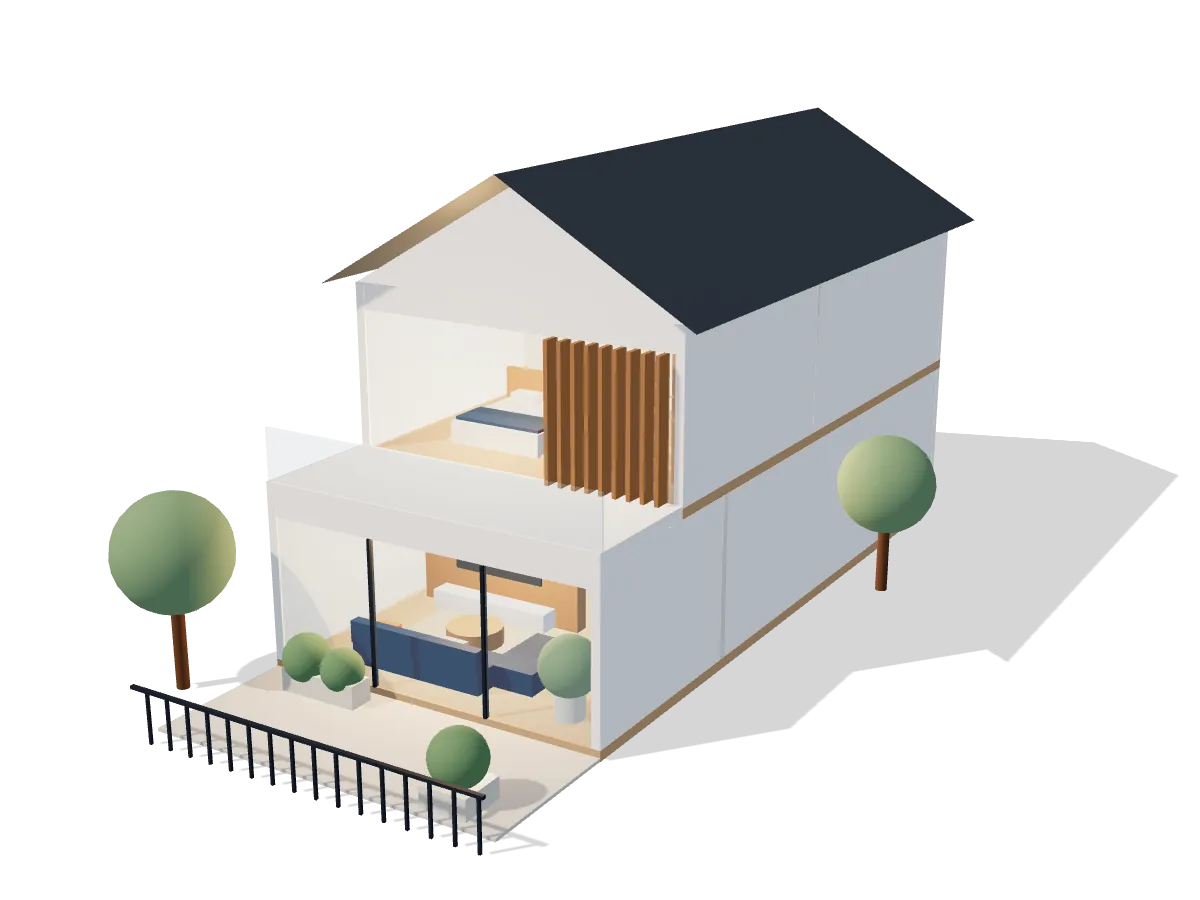
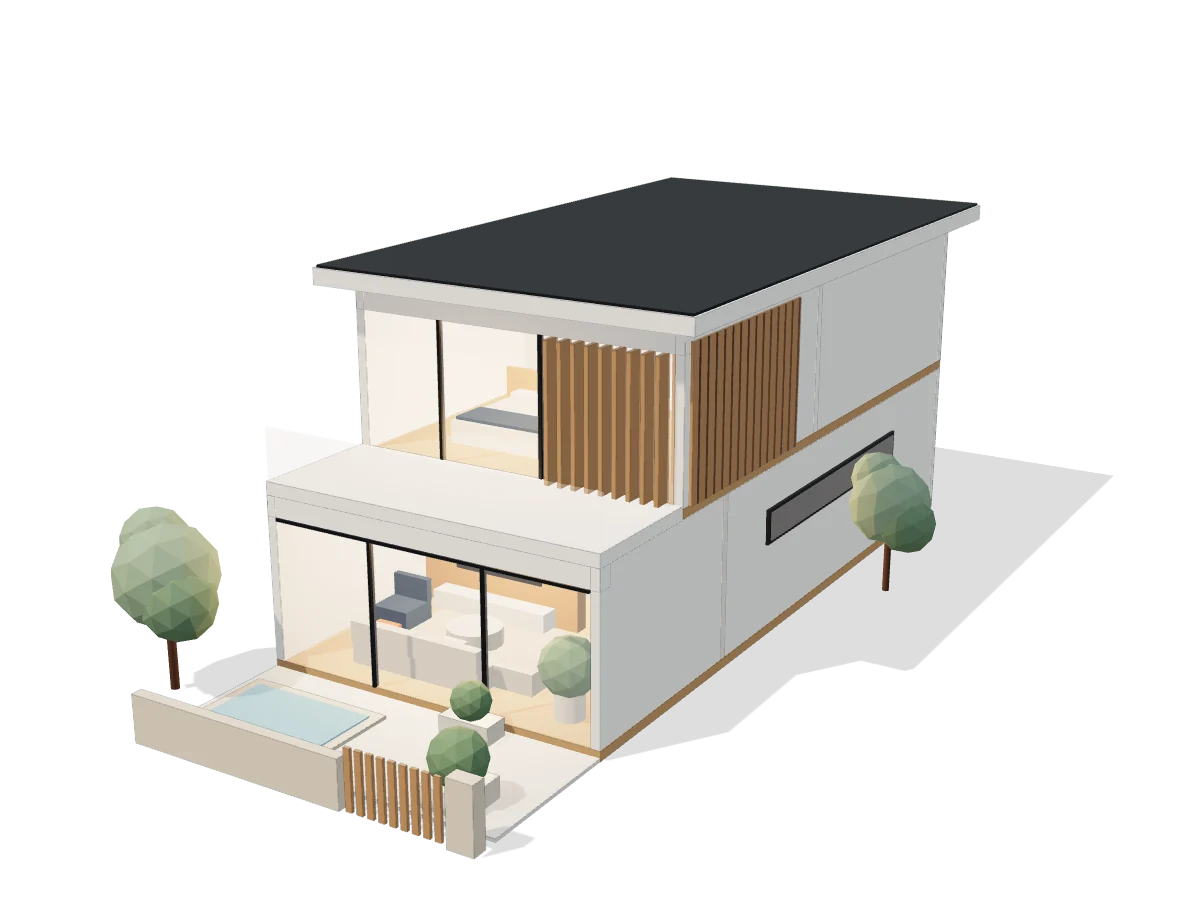
Premium restyle of the 3D house
- Studio environment lighting (procedural softboxes baked with PMREM)
  for soft reflections; firmer sun shadows and fine architectural edges
- Warm palette: oak, travertine, brass, oatmeal upholstery with a navy
  accent chair, charcoal frames
- Modern flat roof with overhang and charcoal cap replaces the gable
- Side facade: timber cladding and a long slot window
- Front yard: plunge pool, stone boundary wall with timber slat gate,
  faceted sculpted trees instead of round ones and the picket fence
- Twilight finish: interior lights and glazing glow warm at the end
- Regenerated the static fallback image from the new model

Claude-Session: https://claude.ai/code/session_01L1S9x9j7X8Tz18QrkzYoSy

Changed region(s): [[0.2467, 0.1244, 0.8325, 0.56], [0.0925, 0.5289, 0.4933, 0.9644], [0.555, 0.4667, 0.9867, 0.84]]

diff --git a/albedo-landed-lp/elementor/alb-house3d.js b/albedo-landed-lp/elementor/alb-house3d.js
@@ -15,34 +15,54 @@
     renderer.setPixelRatio(Math.min(window.devicePixelRatio || 1, 2));
     renderer.outputEncoding = THREE.sRGBEncoding;
     renderer.toneMapping = THREE.ACESFilmicToneMapping;
-    renderer.toneMappingExposure = 1.05;
+    renderer.toneMappingExposure = 1.0;
     renderer.shadowMap.enabled = true;
     renderer.shadowMap.type = THREE.PCFSoftShadowMap;
 
     var scene = new THREE.Scene();
     var camera = new THREE.PerspectiveCamera(30, 1, 0.1, 200);
 
-    var hemi = new THREE.HemisphereLight(0xffffff, 0xc9d3de, 0.75); scene.add(hemi);
-    var sun = new THREE.DirectionalLight(0xfff3e2, 1.15);
-    sun.position.set(-14, 24, 18); sun.castShadow = true;
+    // Soft studio reflections: a small procedural "light room" baked into an environment map.
+    var pmrem = new THREE.PMREMGenerator(renderer);
+    var envScene = new THREE.Scene();
+    envScene.add(new THREE.Mesh(new THREE.BoxGeometry(60, 60, 60), new THREE.MeshBasicMaterial({ color: '#C9D2DC', side: THREE.BackSide })));
+    function softbox(w, h, x, y, z, c, k) {
+      var m = new THREE.Mesh(new THREE.PlaneGeometry(w, h), new THREE.MeshBasicMaterial({ color: new THREE.Color(c).multiplyScalar(k), side: THREE.DoubleSide }));
+      m.position.set(x, y, z); m.lookAt(0, 0, 0); envScene.add(m);
+    }
+    softbox(26, 16, 0, 26, 4, '#FFFFFF', 2.6);
+    softbox(14, 10, -24, 10, 10, '#FFF1DE', 2.0);
+    softbox(14, 10, 22, 8, -10, '#DCE8F6', 1.4);
+    var envFloor = new THREE.Mesh(new THREE.PlaneGeometry(60, 60), new THREE.MeshBasicMaterial({ color: '#A79F94' }));
+    envFloor.rotation.x = -Math.PI / 2; envFloor.position.y = -12; envScene.add(envFloor);
+    var envTex = pmrem.fromScene(envScene, 0.035).texture;
+    scene.environment = envTex;
+
+    var hemi = new THREE.HemisphereLight(0xffffff, 0xd8d2c8, 0.28); scene.add(hemi);
+    var sun = new THREE.DirectionalLight(0xfff1de, 1.55);
+    sun.position.set(-10, 28, 16); sun.castShadow = true;
     sun.shadow.mapSize.set(2048, 2048);
     sun.shadow.camera.left = -18; sun.shadow.camera.right = 18; sun.shadow.camera.top = 18; sun.shadow.camera.bottom = -18;
-    sun.shadow.bias = -0.0004;
+    sun.shadow.bias = -0.0004; sun.shadow.normalBias = 0.02;
     scene.add(sun);
 
     function C(c) { return new THREE.Color(c); }
-    function mat(c, o) { return new THREE.MeshStandardMaterial(Object.assign({ color: c, roughness: 0.85, metalness: 0 }, o || {})); }
+    function mat(c, o) { return new THREE.MeshStandardMaterial(Object.assign({ color: c, roughness: 0.85, metalness: 0, envMapIntensity: 0.55 }, o || {})); }
     var M = {
-      ground: mat('#E6ECF1'), grass: mat('#B9C9B4'), slab: mat('#F4F1EC'), wall: mat('#FBFAF8'), wallEdge: mat('#E7E2DA'),
-      timber: mat('#B07A4F', { roughness: 0.6 }), timberDark: mat('#6E4A31', { roughness: 0.6 }), fabric: mat('#E8E1D6'),
-      navy: mat('#00325D', { roughness: 0.7 }), accent: mat(accent, { roughness: 0.7 }), stone: mat('#DCD7CF', { roughness: 0.35 }),
-      dark: mat('#2B3440', { roughness: 0.5 }), rug: mat('#C9B9A3'), white: mat('#FFFFFF'), plant: mat('#6F8F6A'), leaf: mat('#7E9A78'),
-      sage: mat('#A9B8A3'), roof: mat('#3D4752', { roughness: 0.7, side: THREE.DoubleSide }), paving: mat('#D5D1CA'), metal: mat('#5B6673', { roughness: 0.4, metalness: 0.4 }),
-      lamp: mat('#FFE2B8', { emissive: '#FFC27A', emissiveIntensity: 0 }), art: mat('#4F7CA7'),
-      glass: new THREE.MeshStandardMaterial({ color: '#D3E6F4', roughness: 0.05, metalness: 0.1, transparent: true, opacity: 0, depthWrite: false }),
-      line: new THREE.LineBasicMaterial({ color: '#00325D', transparent: true, opacity: 0.55 })
+      ground: mat('#E6ECF1'), slab: mat('#F2EEE8'), wall: mat('#F7F4EF', { roughness: 0.92 }), wallEdge: mat('#ECE6DD', { roughness: 0.92 }),
+      timber: mat('#B88A5E', { roughness: 0.55 }), timberDark: mat('#5B3F2C', { roughness: 0.6 }), fabric: mat('#E7DFD2', { roughness: 0.95 }),
+      sofa: mat('#D3C8B8', { roughness: 0.95 }), navy: mat('#1F3B5A', { roughness: 0.8 }), accent: mat(accent, { roughness: 0.8 }),
+      stone: mat('#E3DACB', { roughness: 0.38 }), travertine: mat('#D9CDB9', { roughness: 0.5 }),
+      dark: mat('#2A2D31', { roughness: 0.45, metalness: 0.55 }), rug: mat('#CDBFA9', { roughness: 1 }), white: mat('#FBFAF7', { roughness: 0.5 }),
+      plant: mat('#6E8A69', { flatShading: true }), leaf: mat('#8FA58B', { roughness: 0.9, flatShading: true }), leafDark: mat('#728C70', { roughness: 0.9, flatShading: true }),
+      sage: mat('#AEBBA7'), roofCap: mat('#24282D', { roughness: 0.55, metalness: 0.3 }), paving: mat('#ECE6DC', { roughness: 0.7 }),
+      metal: mat('#2A2D31', { roughness: 0.4, metalness: 0.6 }), brass: mat('#B8925A', { roughness: 0.3, metalness: 0.85, envMapIntensity: 1.2 }),
+      lamp: mat('#FFE6C2', { emissive: '#FFC27A', emissiveIntensity: 0 }), art: mat('#5C7A96'),
+      water: new THREE.MeshStandardMaterial({ color: '#7FB3C4', roughness: 0.04, metalness: 0.2, transparent: true, opacity: 0.88 }),
+      glass: new THREE.MeshStandardMaterial({ color: '#DCEAF4', emissive: '#FFB45E', emissiveIntensity: 0, roughness: 0.03, metalness: 0.3, envMapIntensity: 1.6, transparent: true, opacity: 0, depthWrite: false }),
+      line: new THREE.LineBasicMaterial({ color: '#00325D', transparent: true, opacity: 0.55 }),
+      edge: new THREE.LineBasicMaterial({ color: '#2F3742', transparent: true, opacity: 0.24 })
     };
-
     var W = 7, D = 15, H = 3.2, T = 0.18, hx = W / 2, hz = D / 2;
     var y1 = 0.2 + H, fy = y1 + 0.2, z1a = -hz, z1b = 4.8;   // upper floor spans z -7.5 .. 4.8
     var root = new THREE.Group(); scene.add(root);
@@ -61,9 +81,18 @@
       var mesh = new THREE.Mesh(g, m); mesh.position.set(x, y, z); mesh.castShadow = true; (parent || root).add(mesh); return mesh;
     }
 
+    function ico(r, m, x, y, z, parent) {
+      var mesh = new THREE.Mesh(new THREE.IcosahedronGeometry(r, 1), m); mesh.position.set(x, y, z); mesh.castShadow = true; mesh.receiveShadow = true; (parent || root).add(mesh); return mesh;
+    }
+    // Fine architectural edge lines on walls, slabs and facade pieces.
+    function edges(mesh) {
+      if (!mesh || !mesh.geometry || mesh.material === M.glass || mesh.material === M.water) return;
+      mesh.add(new THREE.LineSegments(new THREE.EdgesGeometry(mesh.geometry, 20), M.edge));
+    }
+
     // site
     // No floor or sky: a transparent ground that only receives a soft shadow.
-    var ground = new THREE.Mesh(new THREE.PlaneGeometry(90, 90), new THREE.ShadowMaterial({ opacity: 0.16 })); ground.rotation.x = -Math.PI / 2; ground.receiveShadow = true; scene.add(ground);
+    var ground = new THREE.Mesh(new THREE.PlaneGeometry(90, 90), new THREE.ShadowMaterial({ opacity: 0.13 })); ground.rotation.x = -Math.PI / 2; ground.receiveShadow = true; scene.add(ground);
 
     // ---------- stage 1: floor plan ----------
     var slab0 = box(W, 0.2, D, M.slab, 0, 0, 0);
@@ -97,27 +126,28 @@
     function f(mesh) { furn.push(mesh); return mesh; }
     // living (GF front)
     f(box(3.4, 0.03, 2.6, M.rug, -0.6, 0.2, 5.0));
-    f(box(2.8, 0.42, 0.95, M.navy, -0.8, 0.2, 6.4)); f(box(2.8, 0.42, 0.22, M.navy, -0.8, 0.62, 6.8));
-    f(box(0.95, 0.42, 1.6, M.navy, 0.95, 0.2, 5.6));                       // L-sofa
+    f(box(2.8, 0.42, 0.95, M.sofa, -0.8, 0.2, 6.4)); f(box(2.8, 0.42, 0.22, M.sofa, -0.8, 0.62, 6.8));
+    f(box(0.95, 0.42, 1.6, M.sofa, 0.95, 0.2, 5.6));                       // L-sofa
+    f(box(0.8, 0.4, 0.8, M.navy, -2.6, 0.2, 4.9)); f(box(0.8, 0.45, 0.14, M.navy, -2.6, 0.6, 4.55));   // accent chair
     f(box(0.5, 0.32, 0.16, M.accent, -1.7, 0.62, 6.45)); f(box(0.5, 0.32, 0.16, M.fabric, -0.2, 0.62, 6.45));
-    f(cyl(0.55, 0.36, M.timber, -0.8, 0.2, 5.0));                           // round coffee table
+    f(cyl(0.55, 0.36, M.travertine, -0.8, 0.2, 5.0));                       // travertine coffee table
     f(box(3.6, 2.4, 0.3, M.timber, -1.2, 0.2, 3.45));                       // timber feature wall
     f(box(2.0, 1.15, 0.05, M.dark, -1.2, 1.0, 3.62));                       // TV
     f(box(2.6, 0.4, 0.45, M.white, -1.2, 0.2, 3.8));                        // floating console
-    f(cyl(0.28, 0.5, M.stone, 2.4, 0.2, 6.7)); f(sphere(0.55, M.plant, 2.4, 1.15, 6.7));
-    f(cyl(0.02, 1.4, M.metal, 1.6, 0.2, 4.3)); f(sphere(0.2, M.lamp, 1.6, 1.65, 4.3));   // floor lamp
+    f(cyl(0.28, 0.5, M.stone, 2.4, 0.2, 6.7)); f(ico(0.55, M.plant, 2.4, 1.15, 6.7));
+    f(cyl(0.02, 1.4, M.brass, 1.6, 0.2, 4.3)); f(sphere(0.2, M.lamp, 1.6, 1.65, 4.3));   // floor lamp
     // dining (GF middle)
     f(box(2.2, 0.06, 1.0, M.timber, -1.0, 0.95, 0.9));
     f(box(0.1, 0.75, 0.8, M.timberDark, -1.9, 0.2, 0.9)); f(box(0.1, 0.75, 0.8, M.timberDark, -0.1, 0.2, 0.9));
     [-1.7, -1.0, -0.3].forEach(function (x) { f(box(0.42, 0.45, 0.42, M.fabric, x, 0.2, 0.05)); f(box(0.42, 0.45, 0.42, M.fabric, x, 0.2, 1.75)); });
-    [-1.5, -0.5].forEach(function (x) { f(cyl(0.02, 0.9, M.metal, x, 2.5, 0.9)); f(sphere(0.18, M.lamp, x, 2.45, 0.9)); });
+    [-1.5, -0.5].forEach(function (x) { f(cyl(0.02, 0.9, M.brass, x, 2.5, 0.9)); f(sphere(0.18, M.lamp, x, 2.45, 0.9)); });
     f(box(0.06, 0.9, 1.4, M.art, -hx + 0.22, 1.4, 0.9));                     // artwork
     // kitchen (GF back)
-    f(box(2.4, 0.92, 0.95, M.stone, -1.1, 0.2, -3.7));
+    f(box(2.4, 0.92, 0.95, M.travertine, -1.1, 0.2, -3.7));
     f(box(W - 0.4, 0.92, 0.65, M.white, -0.2, 0.2, -hz + 0.55));
     f(box(W - 0.4, 0.75, 0.38, M.timber, -0.2, 1.8, -hz + 0.4));
     f(box(0.7, 2.2, 0.7, M.white, hx - 0.6, 0.2, -hz + 1.6));                // fridge tower
-    [-1.6, -0.6].forEach(function (x) { f(cyl(0.02, 0.8, M.metal, x, 2.6, -3.7)); f(sphere(0.14, M.lamp, x, 2.55, -3.7)); });
+    [-1.6, -0.6].forEach(function (x) { f(cyl(0.02, 0.8, M.brass, x, 2.6, -3.7)); f(sphere(0.14, M.lamp, x, 2.55, -3.7)); });
     // upper: master bedroom (front)
     f(box(2.4, 0.03, 1.8, M.rug, -1.2, fy, 2.7));
     f(box(2.0, 0.45, 2.2, M.fabric, -1.2, fy, 2.6)); f(box(2.4, 1.0, 0.12, M.timber, -1.2, fy, 1.45));
@@ -149,30 +179,39 @@
     var uGlass = e(box(W - 0.4, H - 0.5, 0.06, M.glass, 0, fy, z1b - 0.05, null, true));
     e(box(W, 0.5, 0.3, M.wall, 0, fy + H - 0.5, z1b - 0.15));
     for (var k = 0; k < 9; k++) e(box(0.08, H - 0.5, 0.35, M.timber, 0.9 + k * 0.28, fy, z1b + 0.12));
-    // pitched roof with gables
-    var rw = hx + 0.45, cz = (z1a + z1b) / 2, rd = (z1b - z1a) / 2 + 0.45, rh = 2.3;
-    var rg = new THREE.BufferGeometry();
-    rg.setAttribute('position', new THREE.Float32BufferAttribute([
-      -rw, 0, -rd, -rw, 0, rd, 0, rh, rd,  -rw, 0, -rd, 0, rh, rd, 0, rh, -rd,
-      rw, 0, -rd, 0, rh, -rd, 0, rh, rd,  rw, 0, -rd, 0, rh, rd, rw, 0, rd
-    ], 3));
-    rg.computeVertexNormals();
-    var roof = new THREE.Mesh(rg, M.roof); roof.castShadow = true; roof.position.set(0, fy + H, cz); root.add(roof); e(roof);
-    var gg = new THREE.BufferGeometry();
-    gg.setAttribute('position', new THREE.Float32BufferAttribute([-hx, 0, 0, hx, 0, 0, 0, rh * (hx / rw), 0], 3)); gg.computeVertexNormals();
-    var gMat = M.wall.clone(); gMat.side = THREE.DoubleSide;
-    var gf = new THREE.Mesh(gg, gMat); gf.position.set(0, fy + H, z1b - 0.05); root.add(gf); e(gf);
-    var gb = new THREE.Mesh(gg, gMat); gb.position.set(0, fy + H, z1a + 0.05); root.add(gb); e(gb);
-    // front yard: porch, car, gate, trees
+    // dark bronze mullions on the upper glazing
+    [-1.6, 0.6].forEach(function (x) { e(box(0.06, H - 0.5, 0.1, M.dark, x, fy, z1b - 0.02)); });
+    e(box(W - 0.4, 0.06, 0.1, M.dark, 0, 0.2 + H - 0.46, hz - 0.02));
+    // side facade: timber cladding on the upper floor and a long slot window below
+    e(box(0.06, H - 0.3, 4.2, M.timber, hx + 0.03, fy, z1b - 2.3));
+    for (var c2 = 0; c2 < 14; c2++) e(box(0.03, H - 0.3, 0.02, M.timberDark, hx + 0.07, fy, z1b - 4.3 + c2 * 0.3, null, true));
+    e(box(0.06, 0.7, 6.2, M.dark, hx + 0.03, 1.9, -1.6));
+    e(box(0.04, 0.56, 6.0, M.glass, hx + 0.07, 1.97, -1.6, null, true));
+    // modern flat roof: overhanging slab with a thin charcoal cap
+    var cz = (z1a + z1b) / 2, rL = (z1b - z1a) + 1.2;
+    e(box(W + 1.0, 0.32, rL, M.wall, 0, fy + H, cz));
+    e(box(W + 0.9, 0.05, rL - 0.1, M.roofCap, 0, fy + H + 0.32, cz, null, true));
+    // front yard: travertine paving, plunge pool, planters
     e(box(W, 0.06, 3.0, M.paving, 0, 0.01, hz + 1.5, null, true));
-    e(box(0.9, 0.45, 0.9, M.stone, 2.4, 0.01, hz + 2.4)); e(sphere(0.5, M.plant, 2.4, 0.85, hz + 2.4));
-    for (var g2 = 0; g2 < 16; g2++) e(box(0.05, 0.95, 0.05, M.dark, -hx + 0.25 + g2 * 0.45, 0.01, hz + 3.4));
-    e(box(W + 0.2, 0.06, 0.08, M.dark, 0, 0.95, hz + 3.4));
-    e(cyl(0.12, 1.8, M.timberDark, -hx - 0.9, 0.01, hz + 1.5)); e(sphere(1.1, M.leaf, -hx - 0.9, 2.6, hz + 1.5));
-    e(cyl(0.12, 1.6, M.timberDark, hx + 1.0, 0.01, -2)); e(sphere(1.0, M.leaf, hx + 1.0, 2.3, -2));
-    e(box(1.6, 0.5, 0.5, M.stone, -1.9, 0.01, hz + 0.5)); e(sphere(0.45, M.plant, -2.3, 0.7, hz + 0.5)); e(sphere(0.4, M.plant, -1.5, 0.65, hz + 0.5));
+    e(box(2.9, 0.12, 1.9, M.travertine, -1.85, 0.01, hz + 1.65, null, true));      // pool coping
+    e(box(2.5, 0.06, 1.5, M.water, -1.85, 0.1, hz + 1.65, null, true));             // water
+    e(box(0.9, 0.45, 0.9, M.stone, 2.4, 0.01, hz + 2.4)); e(ico(0.5, M.plant, 2.4, 0.85, hz + 2.4));
+    e(box(1.0, 0.4, 0.5, M.stone, 1.2, 0.01, hz + 0.4)); e(ico(0.36, M.plant, 1.2, 0.7, hz + 0.4));
+    // low stone boundary wall with a timber slat gate
+    e(box(4.4, 0.9, 0.22, M.travertine, -hx + 2.2, 0.01, hz + 3.4));
+    e(box(0.5, 1.2, 0.3, M.travertine, hx - 0.25, 0.01, hz + 3.4));
+    for (var g2 = 0; g2 < 9; g2++) e(box(0.12, 1.1, 0.06, M.timber, -hx + 4.55 + g2 * 0.215, 0.01, hz + 3.42));
+    // sculpted trees
+    function tree(x, z, k) {
+      e(cyl(0.07 * k, 1.5 * k, M.timberDark, x, 0.01, z));
+      e(ico(0.85 * k, M.leaf, x, 1.9 * k, z)); e(ico(0.6 * k, M.leafDark, x + 0.45 * k, 1.6 * k, z + 0.2 * k)); e(ico(0.55 * k, M.leaf, x - 0.35 * k, 2.35 * k, z - 0.15 * k));
+    }
+    tree(-hx - 1.0, hz + 1.6, 1.15); tree(hx + 1.1, -2, 1.0); tree(-hx - 0.8, -4.5, 0.85);
 
-    var slabCol0 = C('#F4F1EC'), slabCol1 = C('#C9A27E');
+    walls0.concat(walls1, [slab0, slab1], stairs).forEach(edges);
+    ext.forEach(function (m) { if (m.geometry && m.geometry.type === 'BoxGeometry') edges(m); });
+
+    var slabCol0 = C('#F2EEE8'), slabCol1 = C('#C49A6C');
     var groundDay = C('#E6ECF1'), groundDusk = C('#DCE2EA'), sky0 = C('#FFFFFF'), sky1 = C('#C7D3E2');
 
     function clamp(x) { return Math.max(0, Math.min(1, x)); }
@@ -209,18 +248,20 @@
         m.visible = t > 0.001; m.scale.set(Math.max(0.001, t), Math.max(0.001, t), Math.max(0.001, t));
       });
       var tl = seg01(p, 0.68, 0.78), tdusk = seg01(p, 0.84, 0.98);
-      lights.forEach(function (L) { L.intensity = 1.2 * tl + 3.0 * tdusk; });
-      M.lamp.emissiveIntensity = 1.2 * tl + 1.6 * tdusk;
+      lights.forEach(function (L) { L.intensity = 1.3 * tl + 4.2 * tdusk; });
+      M.lamp.emissiveIntensity = 1.3 * tl + 2.2 * tdusk;
+      M.glass.emissiveIntensity = 0.9 * tdusk;
+      renderer.toneMappingExposure = 1.0 - 0.1 * tdusk;
       // 5 complete house (0.8 – 0.95)
       ext.forEach(function (m, i) {
         var t = ease(seg01(p, 0.8 + (i % 12) * 0.006, 0.88 + (i % 12) * 0.006));
         m.visible = t > 0.001;
         m.position.y = m.userData.base.y + (1 - t) * 3;
       });
-      M.glass.opacity = 0.3 * seg01(p, 0.8, 0.88);
+      M.glass.opacity = 0.36 * seg01(p, 0.8, 0.88);
       // dusk
-      sun.intensity = 1.15 - 0.35 * tdusk; sun.color.setRGB(1, 0.95 - 0.15 * tdusk, 0.88 - 0.3 * tdusk);
-      hemi.intensity = 0.75 - 0.15 * tdusk; hemi.color.copy(sky0).lerp(sky1, tdusk);
+      sun.intensity = 1.55 - 0.6 * tdusk; sun.color.setRGB(1, 0.95 - 0.15 * tdusk, 0.88 - 0.3 * tdusk);
+      hemi.intensity = 0.28 - 0.08 * tdusk; hemi.color.copy(sky0).lerp(sky1, tdusk);
       M.ground.color.copy(groundDay).lerp(groundDusk, tdusk);
 
       // camera: plan view -> orbit inside -> exterior 3/4 front
@@ -249,7 +290,7 @@
       setProgress: function (p) { target = clamp(p); running = true; kick(); },
       jump: function (p) { target = cur = clamp(p); apply(cur); renderer.render(scene, camera); },
       resize: function () { resize(); apply(cur); renderer.render(scene, camera); },
-      dispose: function () { running = false; if (raf) cancelAnimationFrame(raf); renderer.dispose(); }
+      dispose: function () { running = false; if (raf) cancelAnimationFrame(raf); envTex.dispose(); pmrem.dispose(); renderer.dispose(); }
     };
   }
 
@@ -427,7 +468,7 @@
     });
   }
 
-  window.AlbedoHouse3D = { initAll: initAll, sceneProgress: sceneProgress };
+  window.AlbedoHouse3D = { initAll: initAll, sceneProgress: sceneProgress, build: albBuildHouse };
 
   if (document.readyState === "loading") {
     document.addEventListener("DOMContentLoaded", function () { initAll(document); });

diff --git a/albedo-landed-lp/preview/index.html b/albedo-landed-lp/preview/index.html
@@ -498,6 +498,6 @@
 
   </div>
   <script src="../elementor/alb-landing.js?v=3e3cc709c7"></script>
-  <script src="../elementor/alb-house3d.js?v=5a91fd31c4"></script>
+  <script src="../elementor/alb-house3d.js?v=fb7ce5349c"></script>
 </body>
 </html>
